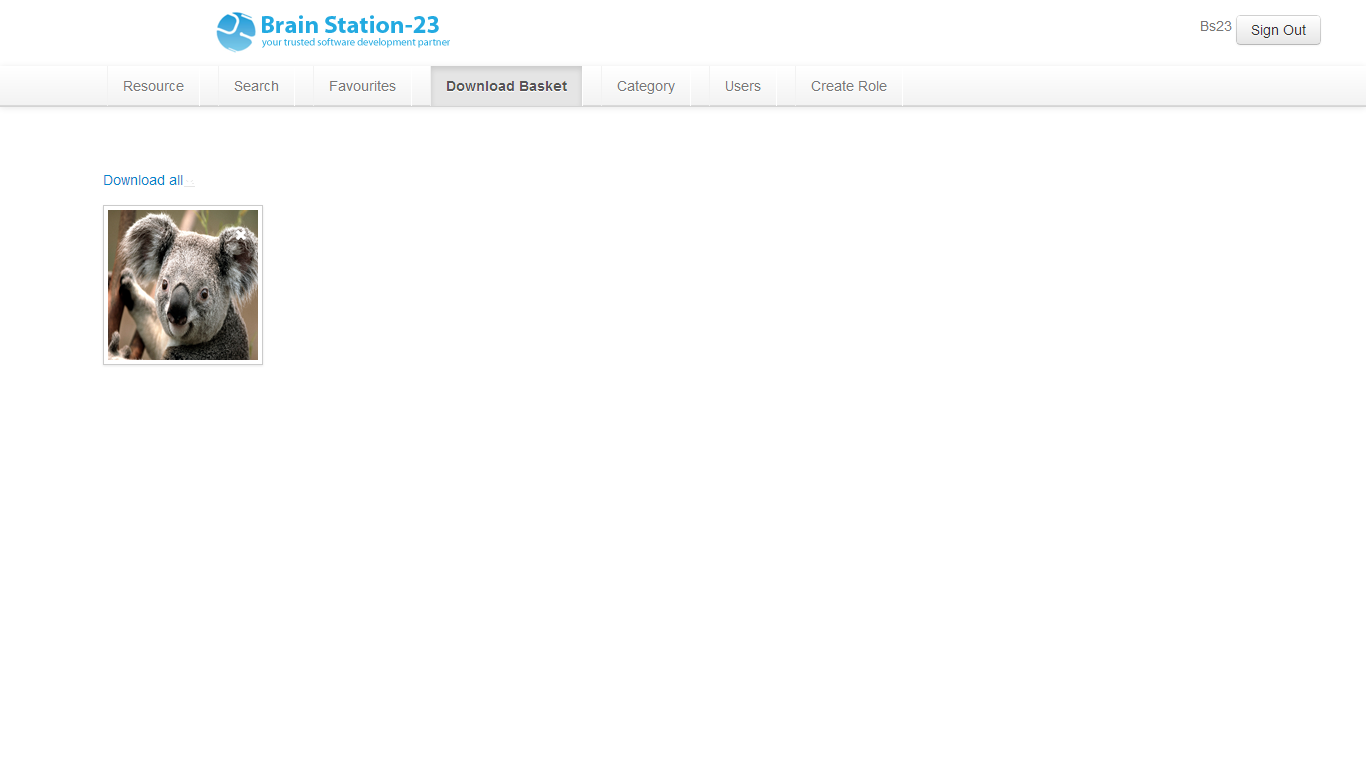
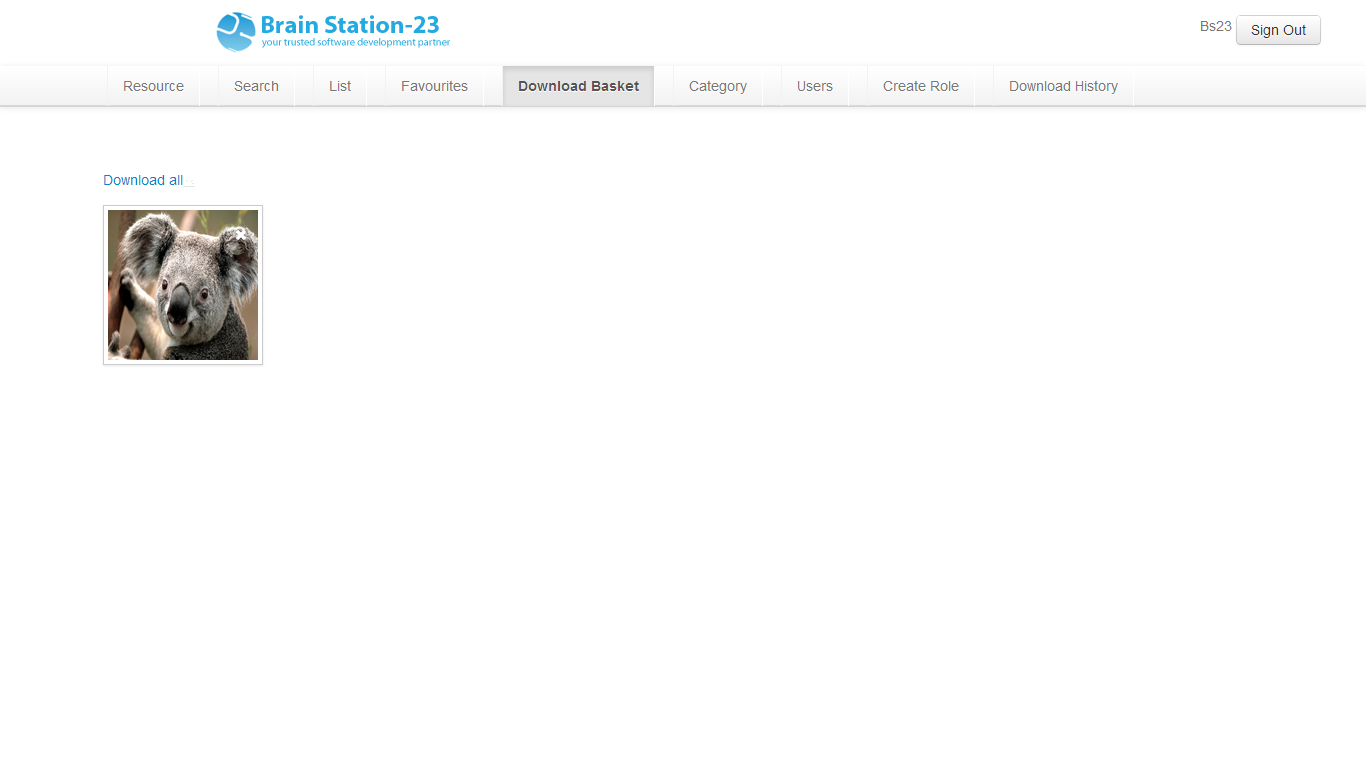
Updated screen shot

Changed region(s): [[0.246, 0.0625, 0.5534, 0.125], [0.5842, 0.0938, 0.7072, 0.125], [0.7379, 0.0938, 0.8302, 0.125]]

diff --git a/FileManager.Web/Client/router.js b/FileManager.Web/Client/router.js
@@ -103,7 +103,7 @@ define([
         $.get('/api/user/?id=1', null, function (isLoggedIn) {
             if (isLoggedIn) {
                 genericSearchView.render();
-                var currentTab = $('a[href="#Generic Search"]');
+                var currentTab = $('a[href="#List"]');
                 self.addActivClass(currentTab);
             }
         }, 'json');

diff --git a/README.md b/README.md
@@ -6,9 +6,9 @@ Digital Resource Manager
  * We are using it as a personal and official resource management tool for our resource management activity, you may use it as well for this or any other purpose (it is very **easy to customize** to fit your needs) 
  * The solution has been created with **Visual Studio 2012**.
  
-## Online Demo
+## Details Feature && documentation
 
-[Check the online demo here](http://www.brainstation-23.com)
+[Feature && documentation](http://brainstation-23.github.com/Digital_Resource_manager/)
 
 ## Which tecnology used this application:
 
@@ -49,6 +49,11 @@ Based on convention, EF will look for a connection string named as the DBContext
 
 ![Search](https://github.com/BrainStation-23/Digital_Resource_manager/raw/master/ResourceScreenshot/Search.png)
 
+### List(Cloud Tag)
+
+![List](https://github.com/BrainStation-23/Digital_Resource_manager/raw/master/ResourceScreenshot/list.png)	
+
+
 ### Favourite
 
 ![Favourite](https://github.com/BrainStation-23/Digital_Resource_manager/raw/master/ResourceScreenshot/Favourite.png)
@@ -70,6 +75,6 @@ Based on convention, EF will look for a connection string named as the DBContext
 ![EditRole](https://github.com/BrainStation-23/Digital_Resource_manager/raw/master/ResourceScreenshot/EditRole.png)
 
 
-## Develop By:
+## Developed By:
 
-* BrainStation-23
+* [BrainStation-23](http://www.brainstation-23.com)
